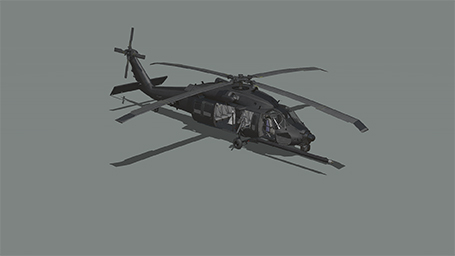
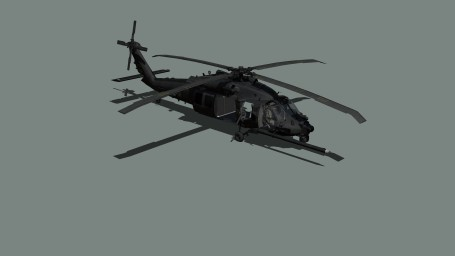
New editor preview images for MH models

Changed region(s): [[0.2462, 0.0938, 0.8308, 0.6875]]

diff --git a/addons/MH60M/config/cfgVehicles.hpp b/addons/MH60M/config/cfgVehicles.hpp
@@ -256,7 +256,7 @@ class CfgVehicles {
         driverWeaponsInfoType = "Rsc_vtx_MELB_Turret_UnitInfo";
         scope = 2;
         forceInGarage = 1;
-        editorPreview = "z\vtx\addons\MH60M\Data\Preview\vtx_MH60M_DAP.jpg";
+        editorPreview = "z\vtx\addons\MH60M\Data\Preview\vtx_MH60M_DAP_MLASS.jpg";
         memoryPointDriverOptics = "pilotcamera_flir_pos";
         transportSoldier=0;
         cargoProxyIndexes[] = {12, 13, 14, 15, 16, 17, 20, 21, 22, 23};

diff --git a/addons/main/script_version.hpp b/addons/main/script_version.hpp
@@ -1,7 +1,7 @@
 #define MAJOR 0
 #define MINOR 7
 #define PATCHLVL 7
-#define BUILD 2
+#define BUILD 3
 #define RELEASENAME HATCHET-ARMA-2.20
 #define BRANCH MAIN
 #define BUILDHASH ea0e3438

diff --git a/CHANGELOG-DEV.md b/CHANGELOG-DEV.md
@@ -1,3 +1,13 @@
+**0.7.7.3**
+
+ - New editor preview images for MH models
+ - Add "Stabilize Hook" Modded Keybind
+ - Remove Redundant Hoist CBA Keybinds
+ - Remove Redundant MFD CBA Keybinds
+ - Remove Redundant FLIR Slew CBA Keybinds
+ - Remove Flight Director CBA Keybinds
+ - Remove Deprecated Debug Settings
+
 **0.7.7.2**
 
  - Increase head move range
